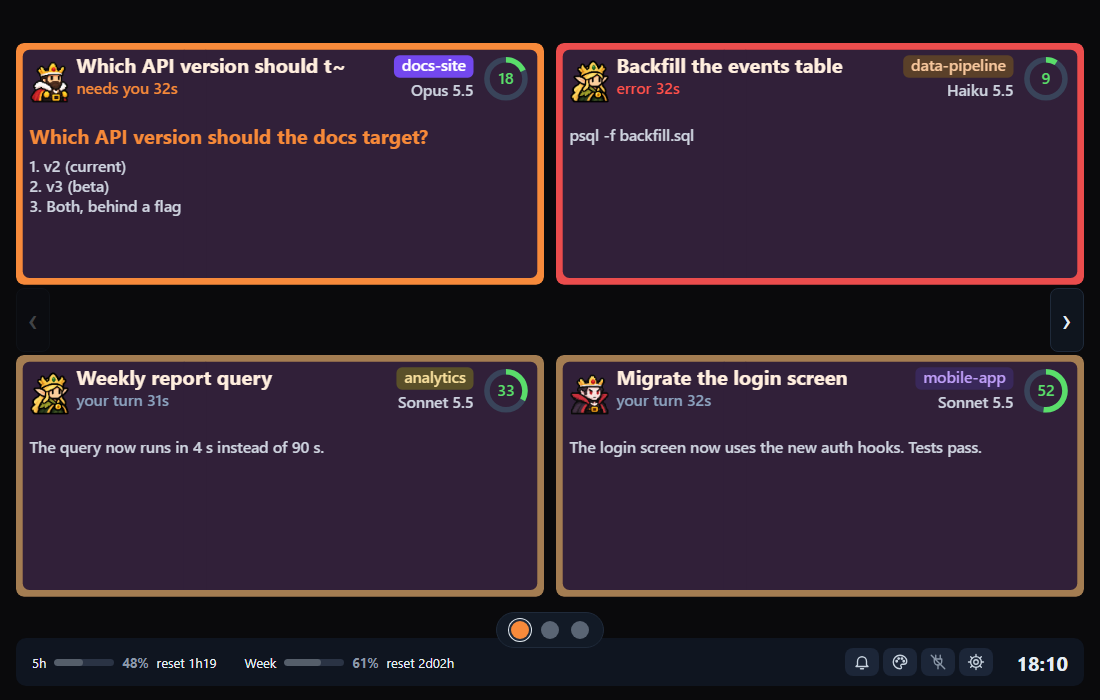
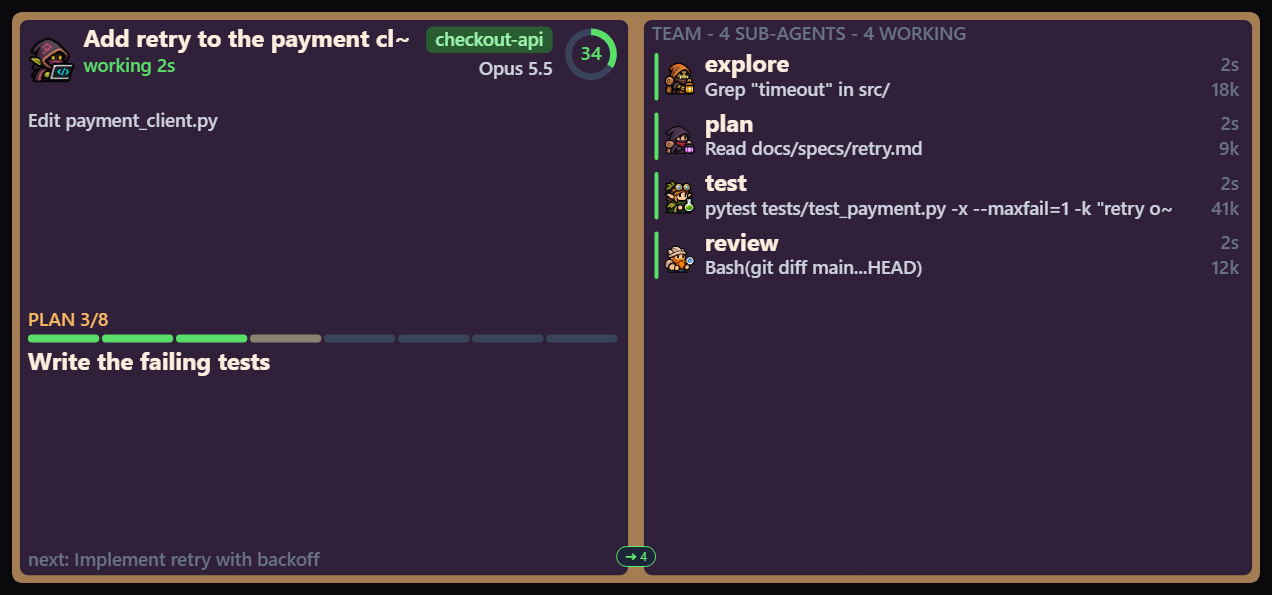
README themes gallery: one session full screen with its team, page_screenshots --themes (#126)

diff --git a/README.md b/README.md
@@ -137,7 +137,7 @@ The palette button of the bar opens the theme dialog: install themes from the ma
 
 Project rules (settings menu) give the sessions of some folders their own badge color or icon pack, for example a red badge on `prod-*` folders.
 
-A few of the themes of [agentsdash-themes](https://github.com/tfabien/agentsdash-themes), on the same four sessions:
+A few of the themes of [agentsdash-themes](https://github.com/tfabien/agentsdash-themes), on the same session full screen with its plan and 4 sub-agents (`node hub/tools/page_screenshots.mjs --themes robot,cat-minimal,fantasy-rpg,office-retro`):
 
 | robot | cat-minimal |
 |---|---|
